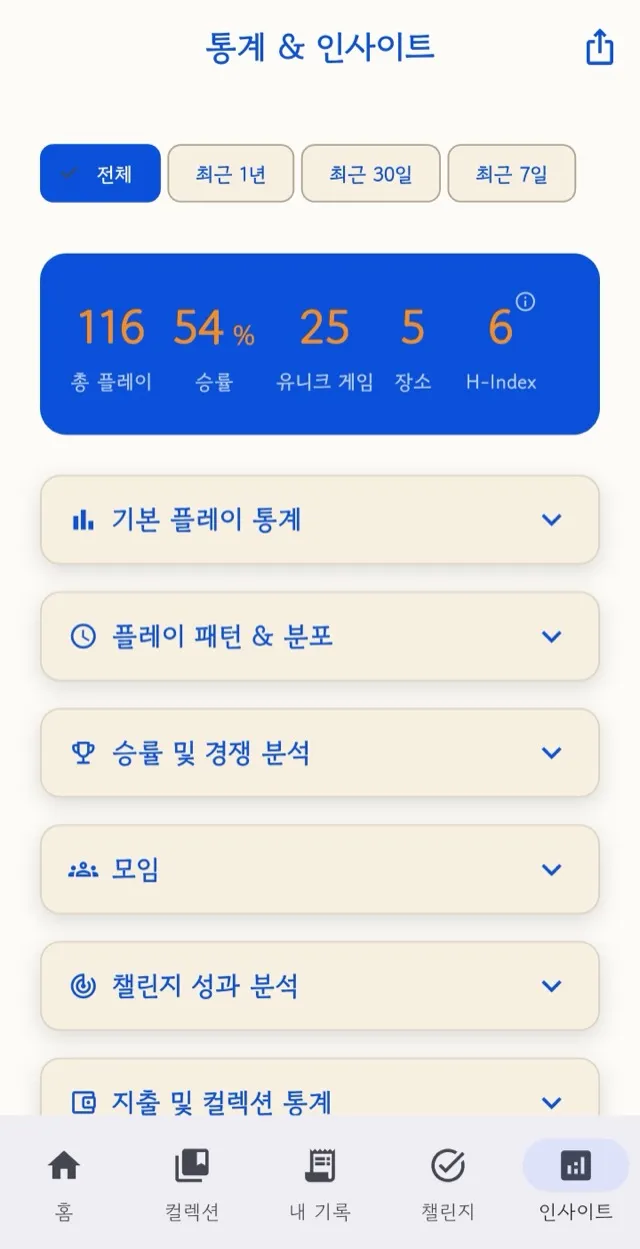
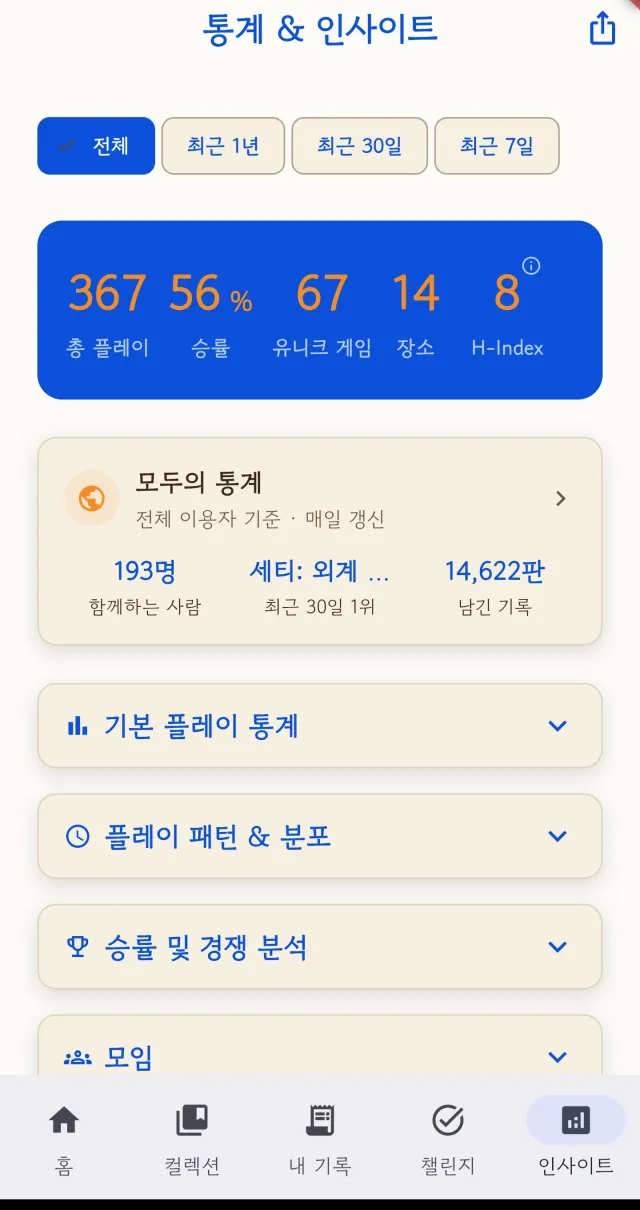
나이스보드 매뉴얼 갱신 — 「모두의 통계」 6.4 신설 + 미배포분 반영
신규
- 6.4 모두의 통계: 전체 이용자 집계 화면 안내 (담기는 것/담기지 않는 것, 갱신 주기,
  3명 이상 게이트, 9개 섹션 읽는 법) + 스크린샷 3장
- 6장 index 에 6.4 추가, 6.1 인사이트 탭에 진입 카드 문단 + 스크린샷 재촬영

함께 반영된 기존 미배포분 (원고에는 있었으나 사이트에 안 올라가 있던 것)
- 표시 이름 공개 범위 안내(로그인·FAQ), 게임 검색 트리거 변경, 한글명 일괄 반영,
  화면 지도·빠른 시작·거래·챌린지·설정 문서의 소소한 갱신

diff --git a/docs/niceboard/06-insights/everyones-stats.md b/docs/niceboard/06-insights/everyones-stats.md
@@ -1,0 +1,168 @@
+---
+title: 6.4 모두의 통계
+parent: 6. 통계와 인사이트
+grand_parent: 나이스보드 사용설명서
+nav_order: 4
+---
+
+# 6.4 모두의 통계
+{: .no_toc }
+
+나이스보드를 쓰는 **사람들 전체**의 기록을 모아 놓은 화면입니다.
+어떤 게임이 인기 있는지, 요즘 뭐가 뜨는지, 다들 어떤 장르를 즐기는지 볼 수 있습니다.
+
+1. TOC
+{:toc}
+
+---
+
+## 들어가는 길
+
+**인사이트 탭 → 요약 카드 아래 「모두의 통계」 카드 탭**
+
+{: .note }
+> 카드가 안 보이면 아직 볼 수 없는 상태입니다. 집계 결과가 준비되지 않았거나
+> 기능이 꺼져 있는 경우입니다. 나머지 통계는 그대로 쓸 수 있습니다.
+
+---
+
+## 무엇이 담기고, 무엇이 담기지 않나
+
+**담기는 것** — 게임별 인원수, 판수, 장르, 요일, 거래 건수처럼 **여럿을 뭉친 숫자**만 담습니다.
+
+**담기지 않는 것**
+
+| 담기지 않음 | 이유 |
+|---|---|
+| **금액** | 구매가·판매가·지출 총액 등 돈에 관한 값은 하나도 집계하지 않습니다 |
+| **사람 이름** | 누가 무엇을 했는지는 담기지 않습니다. "몇 명"이라는 숫자만 남습니다 |
+| **혼자만 등록한 항목** | 3명 미만이 등록한 게임은 순위에 올라가지 않습니다 |
+
+{: .note }
+> 마지막 규칙이 중요합니다. 한 사람만 가진 게임이 순위에 오르면 그건 사실상 그 사람을
+> 가리키는 것과 같기 때문에, **서로 다른 3명 이상**이 등록한 항목만 보여 줍니다.
+> 화면 맨 아래에도 같은 안내가 적혀 있습니다.
+
+---
+
+## 갱신 주기
+
+집계는 **매일 새벽에 한 번** 갱신됩니다. 화면 맨 위에 "◯월 ◯일 기준"이 적혀 있습니다.
+
+- 방금 남긴 내 기록은 **다음 갱신부터** 반영됩니다.
+- 화면을 아래로 당기면 최신 집계를 다시 불러옵니다.
+- 갱신이 오래 멈춰 있으면 기준일 옆에 안내가 붙습니다.
+
+---
+
+## 화면 구성
+
+### 1. 한눈에
+
+전체 규모를 숫자 여섯 개로 보여 줍니다.
+
+| 항목 | 뜻 |
+|---|---|
+| **함께하는 사람** | 나이스보드에 **계정을 만든 사람 수** |
+| **최근 30일 활동** | 그중 최근 30일 안에 플레이 기록을 남긴 사람 수 |
+| **남긴 플레이 기록** | 모두가 기록한 **판수**의 합 |
+| **등록된 게임** | 누군가 컬렉션에 담았거나 한 번이라도 플레이한 **게임 종수**. 위시리스트에만 담긴 게임, 안 가졌는데 해본 게임도 들어갑니다 |
+| **보유 중인 게임** | 지금 누군가 가지고 있는 **게임 종수**. 다들 처분한 게임은 빠지고, 위시리스트나 선주문만 걸린 게임도 빠집니다 |
+| **거래 기록** | 구매·선주문·방출을 합친 **건수**. 금액은 집계하지 않습니다 |
+
+{: .note }
+> **"등록된 게임"과 "보유 중인 게임"의 차이** — 둘 다 사람 수가 아니라 게임 종수입니다.
+> 앞의 것이 항상 크고, 그 차이가 "위시리스트에만 담아 뒀거나, 안 가졌는데 해본 게임"입니다.
+
+숫자의 뜻이 헷갈리면 **카드 오른쪽 위 (i)** 를 눌러 용어 설명 창을 열 수 있습니다.
+**타일을 길게 누르면** 그 자리에서도 짧은 설명이 뜹니다.
+
+![모두의 통계 — 한눈에와 내 위치](/docs/niceboard/assets/screenshots/everyones-stats.webp){: .screenshot }
+*맨 위 여섯 개 숫자, 그 아래가 내 위치 게이지입니다*
+
+### 2. 내 위치
+
+**내 기록이 전체에서 어디쯤인지**를 막대 위 마커로 보여 줍니다.
+플레이 기록 수와 컬렉션에 담은 게임 수, 두 줄입니다.
+
+막대의 눈금은 **상위 10% → 최다** 두 개입니다.
+상위 10% 눈금이 막대의 3분의 2 지점에 있어서, 최다 기록자가 아무리 많아도
+내 위치가 왼쪽 끝에 뭉개지지 않습니다.
+
+- 상위 10% 안에 들면 마커와 문구가 주황색으로 바뀝니다.
+- 아직 기록이 없으면 "첫 기록을 남겨 보세요"라고만 나옵니다.
+
+### 3. 인기 게임
+
+**소장** / **플레이** 칩으로 축을 바꿉니다.
+
+- **소장** — 지금 그 게임을 가지고 있는 사람이 많은 순서
+- **플레이** — 플레이 기록을 남긴 사람이 많은 순서 (전체 기간)
+
+각 줄의 옅은 막대는 1위 대비 비율입니다. 처음엔 10위까지 보이고,
+아래 버튼으로 나머지를 펼칠 수 있습니다. **게임 이름을 탭하면 게임 상세로** 갑니다.
+
+![인기 게임 순위](/docs/niceboard/assets/screenshots/everyones-stats2.webp){: .screenshot }
+*소장 / 플레이 칩으로 축을 바꿉니다*
+
+### 4. 요즘 뜨는 게임
+
+최근 30일과 **그 이전 30일**(30~60일 전)을 나란히 세운 막대 그래프입니다.
+왼쪽 초록이 **최근 30일**, 오른쪽 회색이 **그 이전 30일**입니다.
+막대를 탭하면 게임 이름과 인원이 뜹니다.
+
+아래 목록에는 순위와 함께 **▲/▼ 변화량**이 붙습니다.
+그 이전 30일보다 몇 명 늘었는지(줄었는지)를 뜻합니다.
+
+![요즘 뜨는 게임과 담아 둔 게임](/docs/niceboard/assets/screenshots/everyones-stats3.webp){: .screenshot }
+*초록이 최근 30일, 회색이 그 이전 30일입니다*
+
+### 5. 담아 둔 게임
+
+**위시리스트 / 즐겨찾기 / 선주문·펀딩** 칩으로 바꿔 봅니다.
+"아직 안 샀지만 다들 노리고 있는 게임"을 보기 좋은 자리입니다.
+
+### 6. 월별 플레이 추이
+
+최근 12개월 동안 전체 판수가 어떻게 움직였는지 선 그래프로 봅니다.
+점을 탭하면 그 달의 판수와 플레이한 사람 수가 함께 뜹니다.
+
+### 7. 요일별 플레이
+
+최근 1년간 무슨 요일에 많이 놀았는지 막대 일곱 개로 봅니다.
+가장 붐비는 요일만 주황색으로 강조되고, 카드 제목 옆에도 적힙니다.
+
+### 8. 많이 즐기는 장르
+
+플레이 기록을 장르별로 나눈 도넛 그래프입니다.
+그 아래에는 **전체와 내 취향을 겹쳐 놓은 레이더**가 있습니다.
+
+{: .note }
+> 레이더의 두 도형은 **각자의 최다 장르를 100으로 맞춰** 그립니다.
+> 전체는 수만 판, 나는 수십 판이라 판수를 그대로 겹치면 내 도형이 보이지 않기 때문입니다.
+> 그래서 **크기가 아니라 모양**을 비교하세요 — 어느 쪽으로 치우쳐 있는지가 취향입니다.
+
+장르 정보가 아직 없는 게임은 집계에서 빠집니다.
+
+### 9. 거래 성향
+
+돈 이야기 없이 **어떻게 사고파는지**만 봅니다.
+
+- 구매 / 선주문·펀딩 / 방출 **건수**
+- **신품 vs 중고** 비율 (도넛)
+- **온라인 vs 오프라인** 비율 (가로 띠)
+- **많이 이용하는 곳** — 서로 다른 3명 이상이 적은 구매처만 올라갑니다
+- **거래가 많았던 게임**
+
+---
+
+## 자주 묻는 것
+
+**내 기록이 여기 들어가나요?**
+숫자로만 합쳐집니다. 이름이나 어떤 게임을 가졌는지가 다른 사람에게 보이지는 않습니다.
+
+**내가 방금 산 게임이 왜 안 보이나요?**
+집계는 하루에 한 번 돕니다. 그리고 3명 미만이 등록한 게임은 순위에 올라가지 않습니다.
+
+**"함께하는 사람" 수가 내가 아는 것과 다른데요?**
+테스트용·자동 생성 계정은 집계에서 빼기 때문에 실제로 기록을 남기는 사람 수만 셉니다.

diff --git a/docs/niceboard/01-getting-started/screen-map.md b/docs/niceboard/01-getting-started/screen-map.md
@@ -80,6 +80,30 @@ nav_order: 3
 선택지가 8개를 넘으면 접히고 **더보기 (+N · 선택 M)** 버튼이 나옵니다.
 접혀 있어도 고른 개수는 그 버튼에 표시됩니다.
 
+### 게임 검색은 두 글자부터 자동입니다
+{: #게임-검색은-두-글자부터-자동입니다 .d-inline-block }
+
+중요
+{: .label .label-red }
+
+게임 이름으로 찾는 곳은 세 군데인데 — **게임 검색** 화면, 거래를 등록할 때 뜨는
+**게임 검색** 시트, 챌린지 만들 때의 **직접 검색 추가** 탭 — 조작법이 모두 같습니다.
+
+| 조작 | 어디까지 찾나 |
+|---|---|
+| 두 글자 이상 입력하고 잠깐 기다리기 | **앱에 등록된 게임**에서 찾습니다. 버튼을 누를 필요가 없습니다 |
+| **엔터** 또는 검색창 오른쪽 **🌐 지구본** | **BGG까지** 넓혀서 찾습니다 |
+| **✕** | 입력과 결과를 지웁니다 |
+
+검색창 아래 회색 한 줄이 지금 어디까지 찾은 것인지 알려 줍니다.
+
+- **한 글자만 넣으면 자동으로 찾지 않습니다.** 그래도 찾고 싶으면 엔터를 누르세요
+- **BGG까지 찾는 것은 몇 초 걸립니다.** 그래서 타자를 칠 때마다 부르지 않고,
+  엔터나 지구본을 눌렀을 때만 찾습니다
+- **한글로 검색하면 앱에 등록된 게임에서만 찾습니다** — BGG는 한글 이름을 모릅니다.
+  이때는 지구본 대신 **🔄 다시 검색**이 보이고, 눌러도 BGG로 넓어지지는 않습니다
+  (한 글자 검색과 최신 이름 반영에는 쓸모가 있습니다)
+
 ### 길게 누르기는 화면마다 뜻이 다릅니다
 
 | 어디서 | 길게 누르면 |

diff --git a/docs/niceboard/01-getting-started/login.md b/docs/niceboard/01-getting-started/login.md
@@ -80,8 +80,23 @@ nav_order: 2
 
 ### 표시 이름 정하기
 
-**내 정보 → 프로필 헤더의 이름을 탭**해서 바꿉니다.
-이 이름이 플레이 기록의 "나"로 쓰입니다.
+새로 가입하면 앱에 처음 들어갈 때 **"다른 사용자에게 보일 이름"** 확인 창이 한 번 뜹니다.
+소셜 계정으로 가입하면 그 계정의 이름이 자동으로 들어오므로, 여기서 확인하고 바꿀 수 있습니다.
+**이 이름으로 시작**을 누르면 다음부터는 뜨지 않습니다.
+
+이미 쓰고 계신 분에게는 이 창이 뜨지 않습니다.
+**내 정보 → 프로필 헤더의 이름을 탭**해서 언제든 바꿀 수 있습니다.
+
+이 이름은 두 곳에 쓰입니다:
+
+| 쓰이는 곳 | 누가 보나 |
+|---|---|
+| 플레이 기록의 "나" | 나만 |
+| 한글명 제안자 표기 · 사용자 검색 | 다른 사용자 |
+
+{: .warning }
+> 실명을 드러내고 싶지 않다면 확인 창에서 바꿔 두세요.
+> 기록·컬렉션·통계 같은 내 데이터는 이름과 무관하게 공개되지 않습니다.
 
 ### 프로필 검색 허용 (선택)
 
@@ -89,6 +104,9 @@ nav_order: 2
 
 켜면 다른 사용자가 이름이나 보드라이프 ID로 나를 찾아 친구로 연결할 수 있습니다.
 끄면 검색에 나오지 않습니다. 기본은 꺼져 있습니다.
+
+단, 이 설정은 **검색에 뜨는지만** 정합니다. 한글명을 제안하면 제안자 이름은
+설정과 무관하게 제안 목록에 공개됩니다 — [3.3 게임 이름과 한글명 제안](../../03-games/korean-names/) 참고.
 
 ### 보드라이프 ID (선택)
 

diff --git a/docs/niceboard/04-play-records/managing-records.md b/docs/niceboard/04-play-records/managing-records.md
@@ -52,7 +52,7 @@ nav_order: 7
 | 조작 | 결과 |
 |---|---|
 | **카드 탭** | 기록 상세 시트 |
-| **썸네일 탭** | 게임 상세 화면 |
+| **썸네일 탭** | 게임 상세 화면 (한 게임만 보는 목록에서는 기록 상세 시트) |
 | **카드 오른쪽 위 ↗** | 오늘의 플레이 카드로 바로 공유 |
 | **길게 누르기** | 다중 선택 모드 진입 |
 
@@ -95,6 +95,11 @@ nav_order: 7
 | **내 플레이 기록** | 홈 화면 **내 플레이 보기** | 전체 |
 | **{게임명} 기록** | 게임 상세 · 게임 통계의 **기록 보기** | 그 게임만 |
 | **미보유 플레이** | 홈 화면 **미보유 플레이** 미니카드 | 플레이 당시 안 갖고 있던 판만 |
+
+{: .note }
+> 어느 맥락으로 열든 **카드 모양은 같습니다.**
+> 한 게임만 보는 목록에서는 게임명 자리에 그 판의 **플레이 방식**이 들어가고,
+> 요약의 세 번째 칸이 `게임` 수 대신 **평균 인원**으로 바뀝니다.
 
 **미보유 플레이**는 지금 보유 여부가 아니라 **그 판을 하던 시점**의 보유 여부로 판정합니다.
 갖고 있을 때 기록한 판은 나중에 게임을 팔아도 여기 들어오지 않습니다 → [6.3 지표 사전](../../06-insights/metrics/)

diff --git a/docs/niceboard/02-collection/adding-games.md b/docs/niceboard/02-collection/adding-games.md
@@ -94,9 +94,14 @@ BGG 아이디를 넣고 가져올 항목(보유 게임 · 위시리스트 · 이
 
 ## 목록에 없는 게임이라면
 
-나이스보드의 게임 정보는 BGG 카탈로그에서 옵니다. 검색해도 안 나오는 게임은
-BGG에 아직 등록되지 않았거나 이름이 달리 등록돼 있을 수 있습니다.
-**원어 이름(영문)으로 다시 검색**해 보세요 — 한글 이름은 정식 발매명이 있는 게임에만 붙습니다
+나이스보드의 게임 정보는 BGG 카탈로그에서 옵니다.
+
+먼저 **엔터를 눌러 보세요** — 타자를 칠 때는 앱에 등록된 게임에서만 찾고,
+엔터를 눌러야 BGG까지 넓혀서 찾습니다
+([게임 검색은 두 글자부터 자동입니다](../../01-getting-started/screen-map/#게임-검색은-두-글자부터-자동입니다)).
+
+그래도 안 나오면 **원어 이름(영문)으로 다시 검색**해 보세요 — 한글 이름은 정식 발매명이 있는 게임에만 붙습니다
 ([3.3 게임 이름과 한글명 제안](../../03-games/korean-names/)).
+원어로도 없으면 BGG에 아직 등록되지 않았거나 이름이 달리 등록돼 있을 수 있습니다.
 
 다음 → [2.3 정렬과 필터](../sorting/)

diff --git a/docs/niceboard/06-insights/index.md b/docs/niceboard/06-insights/index.md
@@ -8,16 +8,18 @@ has_children: true
 # 6. 통계와 인사이트
 {: .no_toc }
 
-기록이 쌓이면 앱이 알아서 분석해 줍니다. 통계를 보는 곳은 두 군데입니다.
+기록이 쌓이면 앱이 알아서 분석해 줍니다. 통계를 보는 곳은 세 군데입니다.
 
 - **인사이트 탭** — 내 보드게임 생활 **전체**를 봅니다.
 - **게임 통계 화면** — **한 게임**을 깊게 파고듭니다. 10가지 조건으로 걸러 볼 수 있습니다.
+- **모두의 통계** — 나이스보드를 쓰는 **사람들 전체**의 집계를 봅니다.
 
 | 절 | 내용 |
 |---|---|
 | [6.1 인사이트 탭](insights-tab/) | 여섯 개 카테고리와 기간 필터 |
 | [6.2 게임별 통계와 고급 필터](game-stats/) | 역할 · 플레이 방식 · 모임별 성적, 10차원 필터 |
 | [6.3 지표 사전](metrics/) | H-Index · 승률 기준 · 플레이 스타일 · 장롱 지수 · 미보유 플레이 |
+| [6.4 모두의 통계](everyones-stats/) | 인기 게임 · 뜨는 게임 · 장르 · 요일 · 거래 성향 |
 
 {: .note }
 > 카드마다 집계 범위가 조금씩 다릅니다. 화면 기간 필터를 따르지 않는 카드에는

diff --git a/docs/niceboard/11-data-settings/settings.md b/docs/niceboard/11-data-settings/settings.md
@@ -34,8 +34,11 @@ nav_order: 4
 
 ## 이름 바꾸기
 
-프로필 헤더의 **이름을 탭**합니다.
-이 이름이 플레이 기록의 "나"로 표시되고, 다른 사용자가 나를 검색할 때도 쓰입니다.
+프로필 헤더의 **이름을 탭**합니다. 이름 아래에 **"다른 사용자에게 보이는 이름"** 이라고 적혀 있습니다.
+
+이 이름이 플레이 기록의 "나"로 표시되고, **한글명 제안자 표기와 사용자 검색에도 그대로 쓰입니다.**
+소셜 계정으로 가입했다면 그 계정의 이름이 자동으로 들어와 있을 수 있으니,
+실명을 드러내고 싶지 않다면 여기서 바꾸세요.
 
 ---
 
@@ -56,6 +59,11 @@ nav_order: 4
 
 기본은 **꺼짐**입니다. 켜면 이름과 보드라이프 ID만 공개되며,
 기록·컬렉션·통계는 공개되지 않습니다.
+
+{: .warning }
+> **이 설정은 "검색에 뜨는지"만 정합니다.**
+> 한글명을 제안하면 제안자 이름은 이 설정과 무관하게 제안 목록에 공개됩니다.
+> [3.3 게임 이름과 한글명 제안](../../03-games/korean-names/)을 참고하세요.
 
 ---
 

diff --git a/docs/niceboard/03-games/korean-names.md b/docs/niceboard/03-games/korean-names.md
@@ -57,6 +57,17 @@ nav_order: 3
 
 제안 이유 선택지: `정식 발매명이에요` · `국내에서 통용되는 이름이에요` · `직역이 자연스러워요`
 
+### 제안하면 내 이름이 함께 보입니다
+
+제안 버튼 위에 **"제안하면 이 제안이 〇〇 이름으로 다른 사용자에게 보입니다"** 안내가 있습니다.
+여기 적힌 이름이 제안 목록에 실제로 표기되는 이름입니다.
+
+{: .warning }
+> **이 표기는 「내 정보」의 프로필 검색 허용 설정과 무관합니다.**
+> 검색을 꺼 두었더라도 제안자 이름은 제안 목록에 공개됩니다.
+> 소셜 계정으로 가입하면 그 계정의 이름이 그대로 쓰일 수 있으니,
+> 실명을 드러내고 싶지 않다면 제안 전에 **내 정보 → 이름**에서 바꾸세요.
+
 {: .warning }
 > **한글명 제안과 투표는 로그인한 사용자만 가능합니다.**
 > *"익명 세션은 재설치마다 UID가 바뀌어…"* 라는 안내가 나오면 이메일이나 소셜 계정으로 로그인하세요.

diff --git a/docs/niceboard/06-insights/insights-tab.md b/docs/niceboard/06-insights/insights-tab.md
@@ -43,7 +43,21 @@ nav_order: 1
 **H-Index**에는 물음표 아이콘이 있어 설명을 볼 수 있습니다 → [6.3 지표 사전](../metrics/)
 
 ![통계 & 인사이트 탭](/docs/niceboard/assets/screenshots/insights.webp){: .screenshot }
-*기간 칩과 요약 카드 아래로 여섯 개 카테고리가 접혀 있습니다*
+*기간 칩과 요약 카드, 그 아래 「모두의 통계」 카드와 여섯 개 카테고리*
+
+---
+
+## 모두의 통계 카드
+
+요약 카드 바로 아래에 **모두의 통계** 카드가 보이면, 탭해서 나이스보드를 쓰는
+사람들 전체의 집계를 볼 수 있습니다 → [6.4 모두의 통계](../everyones-stats/)
+
+카드에는 미리보기 수치 세 개(함께하는 사람 · 최근 30일 1위 게임 · 남긴 기록)가
+있습니다.
+
+{: .note }
+> 이 카드는 **안 보일 수도 있습니다.** 집계 결과가 아직 준비되지 않았거나
+> 기능이 꺼져 있으면 카드가 나타나지 않습니다. 나머지 카테고리는 그대로 쓸 수 있습니다.
 
 ---
 

diff --git a/docs/niceboard/07-challenges/creating.md b/docs/niceboard/07-challenges/creating.md
@@ -54,8 +54,15 @@ nav_order: 2
 - 고른 게임은 `선택한 게임 목록 (탭하여 취소)`에 칩으로 모입니다
 - **목표 개수를 채우면 나머지 게임은 자동으로 못 고르게 됩니다**
 
+**직접 검색 추가** 탭은 두 글자부터 자동으로 찾아 줍니다. 오른쪽 버튼은
+영문으로 검색할 때 **BGG까지**, 한글로 검색할 때 **다시 검색**으로 바뀝니다 →
+[공통 조작](../../01-getting-started/screen-map/#게임-검색은-두-글자부터-자동입니다)
+
 **보유게임 N회**는 대신 체크리스트가 나오고, 빠른 선택 칩이 있습니다 —
 `전체 선택` · `선택 해제` · `플레이 적은 순 5개` · `플레이 적은 순 10개` · `최근 등록 순 5개` · `최근 등록 순 10개`
+
+칩 아래 **내 보유게임 검색** 칸으로 목록을 좁힐 수 있습니다.
+담을 때 영어 이름이었더라도 **지금 화면에 보이는 한글 이름으로 찾을 수 있습니다.**
 
 ### 6단계 — 도전 티켓
 

diff --git a/docs/niceboard/05-transactions/game-transactions.md b/docs/niceboard/05-transactions/game-transactions.md
@@ -30,7 +30,7 @@ nav_order: 1
 | 항목 | 설명 |
 |---|---|
 | **거래 종류 \*** | **구매 / 방출 / 선주문/펀딩** 중 하나 |
-| **거래 게임 목록 \*** | **게임 추가**로 여러 게임을 넣을 수 있습니다. 같은 조건의 거래를 한 번에 기록할 때 편합니다 |
+| **거래 게임 목록 \*** | **게임 추가**로 여러 게임을 넣을 수 있습니다. 같은 조건의 거래를 한 번에 기록할 때 편합니다. 검색 시트는 두 글자부터 자동으로 찾고, 엔터를 누르면 BGG까지 넓힙니다 → [공통 조작](../../01-getting-started/screen-map/#게임-검색은-두-글자부터-자동입니다) |
 | **거래일 \*** | 돈이 오간 날. 선주문일 때는 **결제일** 역할 |
 | **예상 수령일 \*** | **선주문/펀딩일 때만, 그리고 필수.** 미래 날짜를 넣을 수 있습니다 |
 | **상태** | **신규 / 중고** — 돈이 나가는 거래(구매·선주문)에만 나옵니다 |
